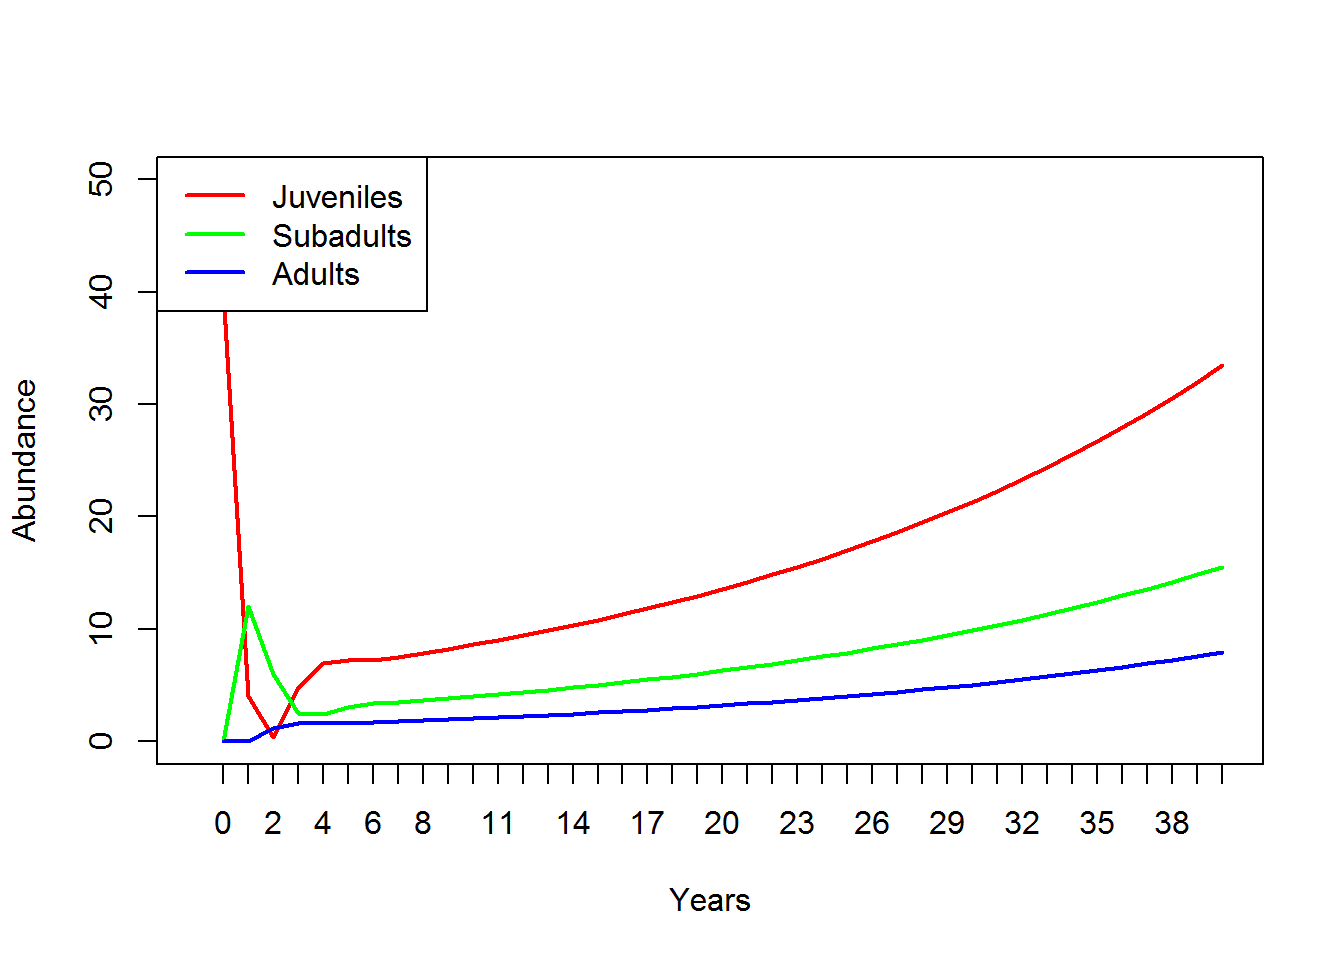
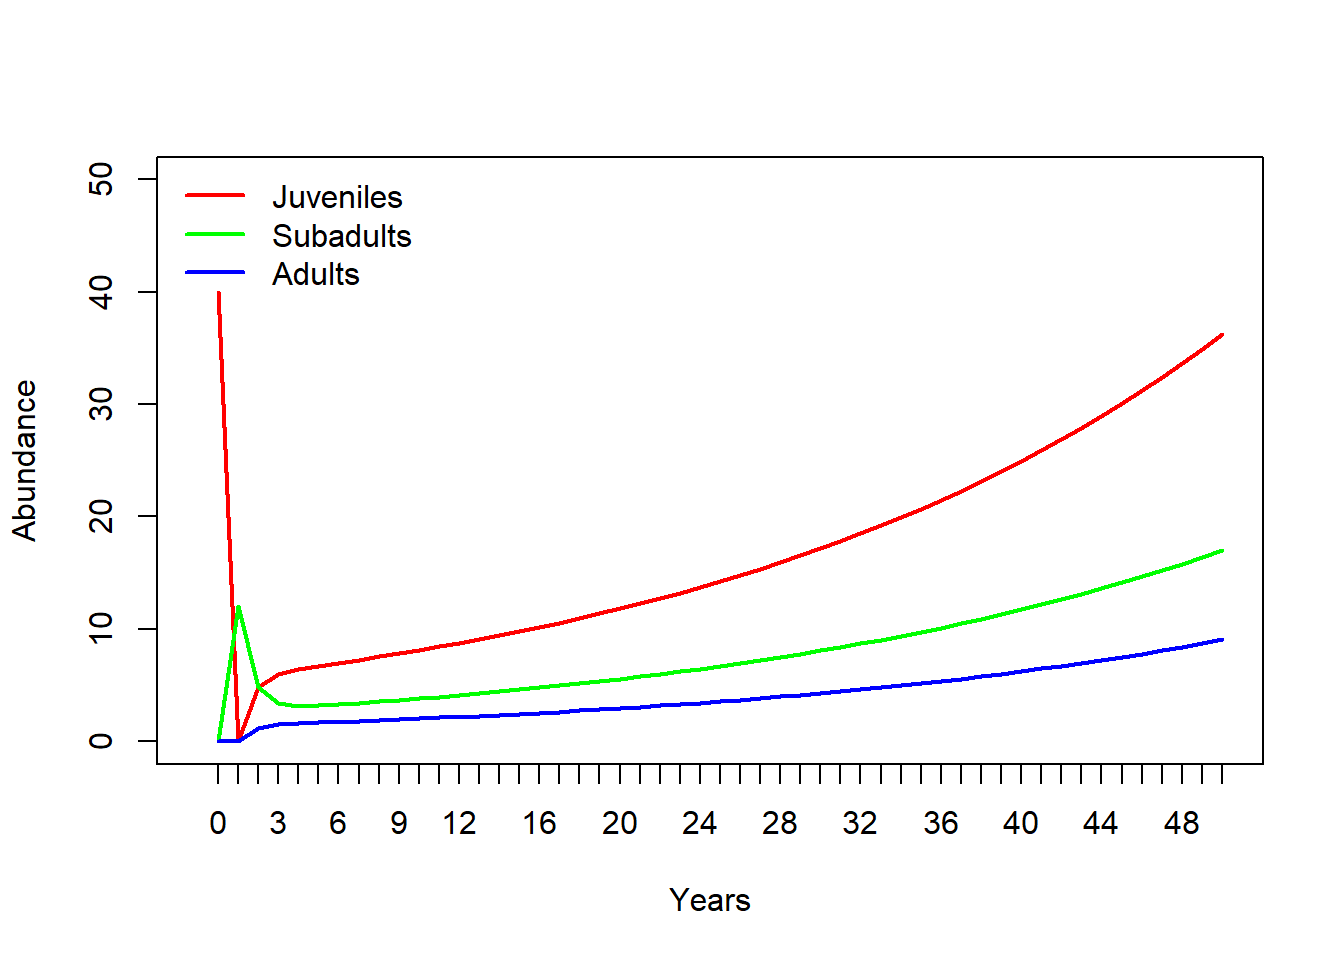
minor

diff --git a/LECTURE7.html b/LECTURE7.html
@@ -547,7 +547,7 @@ stage-structured models with equal simplicity and elegance.</p>
 <p>The term ‘Leslie Matrix’ refers to an age-structured matrix
 population model.</p>
 <p>When a matrix is used to represent a stage-structured population, it
-is often called a ’Lefkovitch” Matrix.</p>
+is often called a “Lefkovitch” Matrix.</p>
 </div>
 </div>
 <div id="reason-2-modeling-age-structured-population-dynamics"
@@ -759,7 +759,7 @@ one</a>.</p>
 specifically <a
 href="https://insightmaker.com/insight/6vZsNuzGIbisYsFVCSLWZK/Stage-structured-population">this
 one</a> - we used this model for running the ‘supplementation’ example
-in the ‘age structured populations’ lecture. In InsightMaker it looks
+in the ‘age structured populations’ lecture. In InsightMaker, it looks
 something like this:</p>
 <p><img src="IM9.jpg" /></p>
 <p>Let’s convert the vital rates to a three-stage <strong>projection
@@ -814,22 +814,43 @@ per-capita transition from Juveniles (col) this year to Subadults (row)
 next year. That is, the transition rate from juvenile to subadult. The
 value from our model is 0.3.</p>
 <p>Let’s update our transition matrix:</p>
-<pre class="r"><code># update the second row, first column
+<pre class="r"><code># update the second row, first column (juvenile survival, or transition from juv to sub)
 
 TMat[2,1] &lt;- 0.3
-TMat</code></pre>
-<pre><code>##           Juveniles Subadults Adults
-## Juveniles       0.0         0      0
-## Subadults       0.3         0      0
-## Adults          0.0         0      0</code></pre>
+
+
+# and the survival of adults (transition from adult to adult)
+
+TMat[3,3] &lt;- 1-0.15    # 85% survival
+
+
+# transition from juv to juv 
+
+TMat[2,2] &lt;- 0.5-0.1    # 40% of juveniles survive and stay juvenile
+
+
+# transition from juv to adult
+
+TMat[3,2]  &lt;- 0.1   # 10% of juveniles survive and transition to adult. </code></pre>
+<p>And the hardest part is usually the top row: the fecundity row. In
+this case, this year’s juveniles don’t produce offspring next year, so
+they have fecundity of zero.</p>
+<p>Subadalts can’t reproduce- BUT, some of this year’s subadults become
+adults next year, and these subadults will contribute offspring to the
+population next year!</p>
+<p>Adults can reproduce, but this years adults must survive if they are
+to produce offspring next year!</p>
+<pre class="r"><code>TMat[1,2] &lt;- 0.1*4      # subadult fecundity term
+
+TMat[1,3] &lt;- 0.85*4     # adult fecundity term</code></pre>
 <p>If we keep going, we get the following matrix. See if you can
 understand what this matrix is saying about the transitions from and two
 the three life stages.</p>
 <pre class="r"><code># and keep filling it in...
 
-TMat[,1] &lt;- c(0,0.3,0)          # fill in the entire first column of the transition matrix
+TMat[,1] &lt;- c(0,0.3,0)              # fill in the entire first column of the transition matrix
 TMat[,2] &lt;- c(0.1*4,0.4,0.1)        # fill in the entire second column of the transition matrix
-TMat[,3] &lt;- c(0.85*4,0,0.85)         # fill in the entire third column of the transition matrix
+TMat[,3] &lt;- c(0.85*4,0,0.85)        # fill in the entire third column of the transition matrix
 TMat</code></pre>
 <pre><code>##           Juveniles Subadults Adults
 ## Juveniles       0.0       0.4   3.40
@@ -855,7 +876,7 @@ colnames(allYears) &lt;- seq(0,nYears)
 allYears[,1] &lt;- InitAbund 
 
 for(t in 2:(nYears+1)){
-  allYears[,t] &lt;-  TMat %*% allYears[,t-1]
+  allYears[,t] &lt;-  TMat %*% allYears[,t-1]    # matrix multiplication!
 }
 
 allYears</code></pre>
@@ -897,8 +918,9 @@ for(s in 1:3){
 }
 axis(1,at=seq(1,nYears+1),labels = seq(0,nYears))
 legend(&quot;topleft&quot;,col=cols,lwd=rep(2,3),legend=rownames(allYears),bty=&quot;n&quot;)</code></pre>
-<p><img src="LECTURE7_files/figure-html/unnamed-chunk-16-1.png" width="672" /></p>
-<p>Does this look the same as the InsightMaker results?</p>
+<p><img src="LECTURE7_files/figure-html/unnamed-chunk-17-1.png" width="672" /></p>
+<p>Does this look the same as the InsightMaker results? Check it to make
+sure!</p>
 </div>
 <div id="limitations-of-matrix-population-models"
 class="section level2">
@@ -931,32 +953,33 @@ href="PVA3_421.html">here</a>.</p>
 <p>Next, download the Excel document for this example <a
 href="Loggerhead2022.xlsx">here</a>. We will work through the Excel
 example in class.</p>
+<p>NOTE: a worked version of the spreadsheet can be found
+[Loggerhead2022_worked.xlsx]</p>
 <p>Using your Excel spreadsheet, investigate four management scenarios
 for the loggerhead turtle population:</p>
 <ol style="list-style-type: decimal">
-<li>Improve fecundity (labeled “Sub Fecundity” and “Adult Fecundity” in
-the IM model) via <em>nest-site protection</em>!
+<li>Improve fecundity (both subadults and adults) via <em>nest-site
+protection</em>!
 <ul>
-<li>Double fecundity (improve to 2X the current value)<br />
+<li>Increase fecundity terms by 50% (improve to 1.5 times the current
+value)<br />
 </li>
 </ul></li>
-<li>Improve hatchling survival (labeled “hatchling growth” in the IM
-model) via <em>nest monitoring</em>
+<li>Improve hatchling survival via <em>nest monitoring</em>
 <ul>
 <li>Improve <em>to</em> 100%<br />
 </li>
 </ul></li>
-<li>Improve large juvenile survival (labeled “Lg Juv Surv” in the IM
-model) using <em>Turtle Excluder Devices (TEDs)</em>
+<li>Improve large juvenile survival using <em>Turtle Excluder Devices
+(TEDs)</em>
 <ul>
-<li>Add 0.25 to the existing large juvenile survival<br />
+<li>Add 0.25 to the existing large juvenile survival (prob of transition
+from LJ to LJ)<br />
 </li>
 </ul></li>
-<li>Improve adult/subadult survival (labeled “Sub Surv” and “Adult Surv”
-in IM) by <em>restricting longline fisheries</em>.
+<li>Improve adult survival by <em>restricting longline fisheries</em>.
 <ul>
-<li>Increase by 10% (add 0.1 to the existing subadult and adult
-survival)</li>
+<li>Increase by 10% (add 0.1 to adult survival)</li>
 </ul></li>
 </ol>
 <div class="figure">
